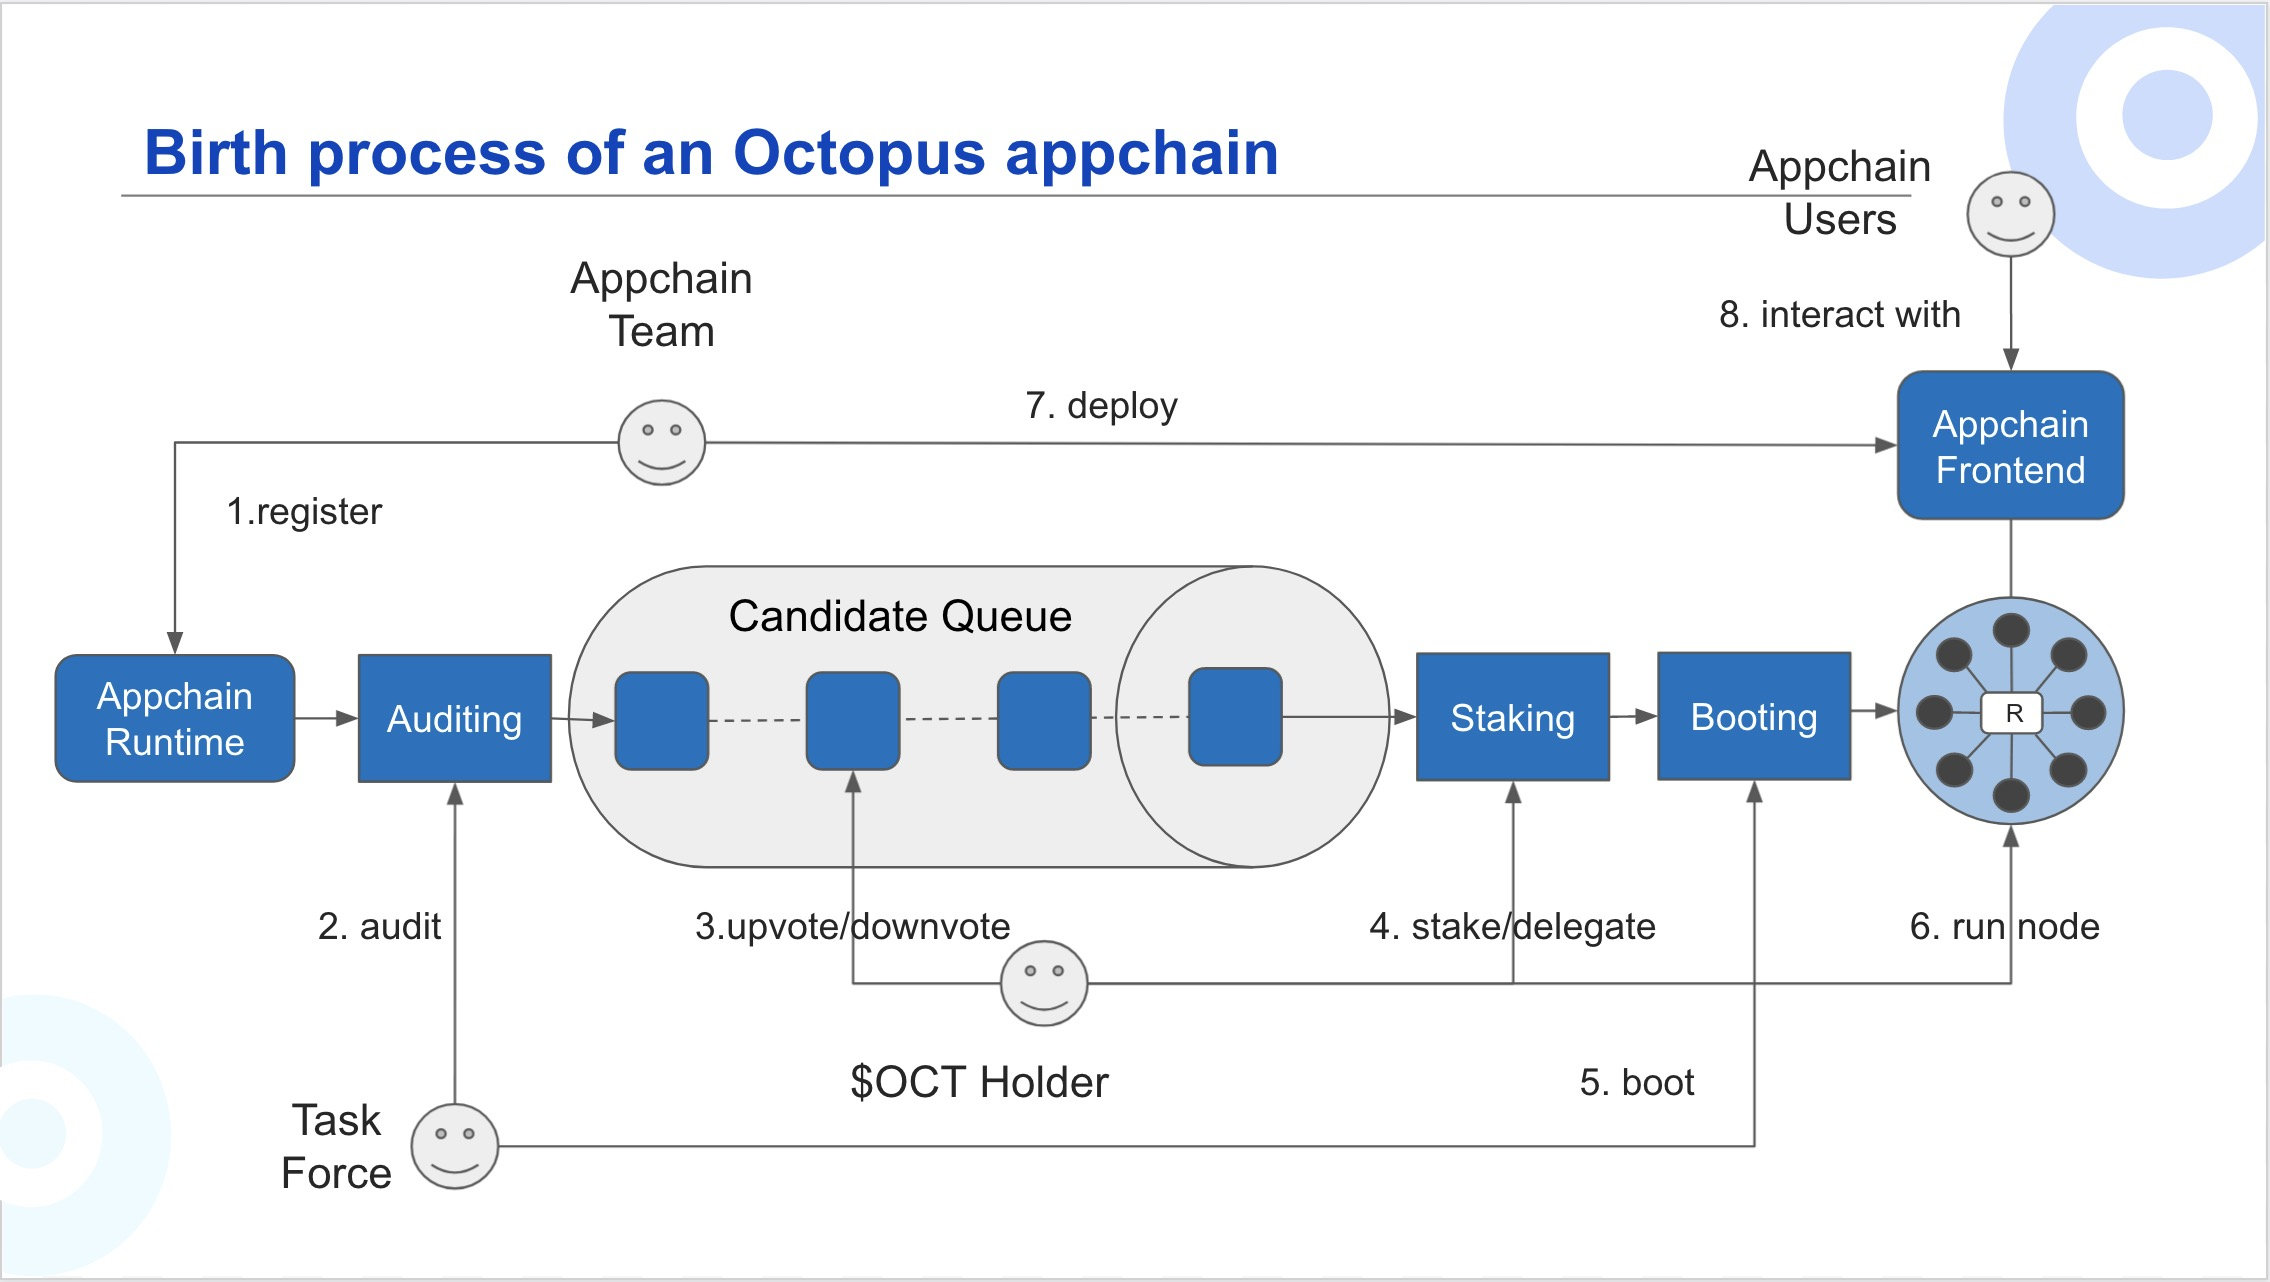
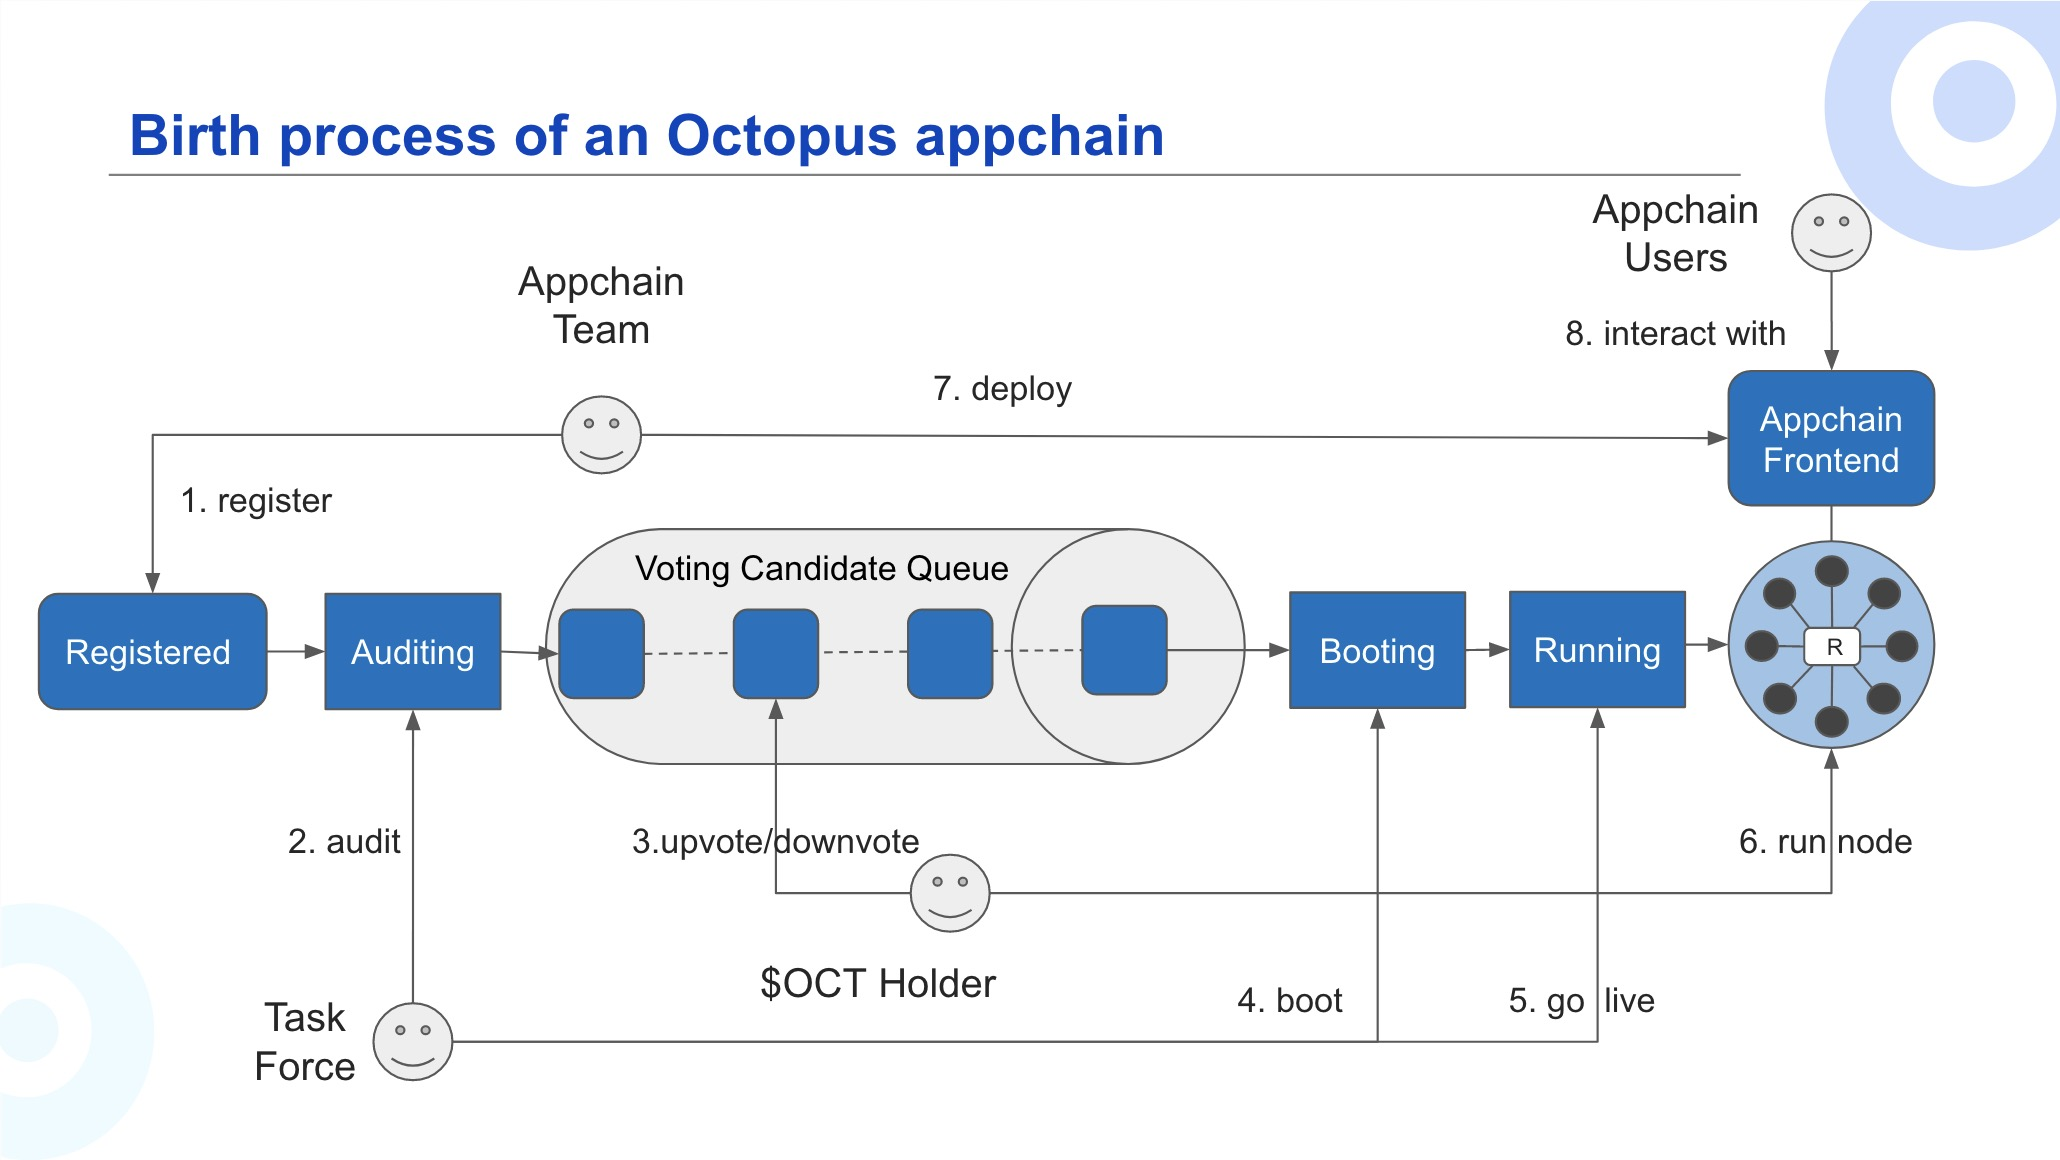
update appchain startup

diff --git a/src/guides/appchain-startup.md b/src/guides/appchain-startup.md
@@ -4,27 +4,26 @@
 
 ### Prerequisite
 
-An appchain goes to live, the appchain team firstly needs to do:
+An appchain goes live, the appchain team firstly needs to do:
 
 * [Develop](./appchain-develop.md) and complete the implementation for the appchain functional specification file, include: publish the appchain release;
 * Firstly need to [register](./appchain-register.md) the appchain and pass the audit and the other process in [testnet](https://testnet.oct.network). And then register the appchain in [mainnet](https://mainnet.oct.network).
 
 ### Appchain Status
 
-After the registration is completed, there are the below fours phases:
+There are the below five phases:
 
-1. **Auditing**: The Octopus team will start the audit within 1-2 weeks. During the Auditing phase, the Octopus team mainly audits for two aspects:
-    * Whether there are known security vulnerabilities in the Substrate codes;
-    * Whether the implementation of Appchain is consistent with its functional specification file.
-2. **Voting**: If the Appchain passes the audit, it will go through the Voting phase. This is the **critical stage** for the Appchain team to request support from OCT holders. OCT holders can [vote](./voting-appchain.md) to decide whether the Appchain would go through the next phase.
-3. **Staking**: The Appchain with the highest vote scores will go through the Staking phase, which is the pre-launch stage of the Appchain network. At this phase, OCT holders can stake OCT as appchain [validator](../maintain/validator-guide.md) or [delegator](./staking-delegate.md), and the validator doesn't need to run a validator node.
-4. **Booting**: When the Appchain obtains enough validator nodes, and the total value staked OCTs be at $2 million which is the lowest safety limit, the Octopus team will run several validator nodes as the booting nodes of the Appchain network, the Appchain will go through the Booting phase.
+1. **Registered**: The Appchain will go through the Registered phase after the appchain team submits the registration with the appchain information.
+2. **Auditing**: The Octopus team will start the audit within 1-2 weeks. During the Auditing phase, the Octopus team mainly audits for two aspects:
+    * The protocol functions are usable/valuable for business purposes;
+    * Both the protocol apps and appchain node are implemented as the same with the protocol function specification file provided;
+3. **Voting**: If the Appchain passes the audit, it will go through the Voting phase. This is the **critical stage** for the Appchain team to request support from OCT holders. OCT holders can [vote](./voting-appchain.md) to decide whether the Appchain would go through the next phase.
+4. **Booting**: The Appchain with the highest vote scores will go through the Booting phase, the Octopus team will do some preparations for the appchain to go live.
+5. **Running**: After the Octopus team boots the appchain and the Appchain team activates the chain with the Sudo account,  the Octopus team will execute the go-live step, the Appchain will go through the Running phase.
 
-> Notes:
-> * An appchain network only needs 6 validator nodes to startup, Octopus Foundation will run 4 boot-nodes for each appchain, and those boot-nodes will not accept delegation.
-> * To be a validator, the minimum amount of stake OCT is 10,000;
+🎉🎉🎉 Congratulations! If you've made it this far, you are now part of the Octopus Network! As an appchain partner, your leased security is valid as long as the community continues to support the project with staking OCT tokens. If you have any questions, please reach out to us on [Discord](https://discord.gg/6GTJBkZA9Q). If you don't have your own appchain channel there, please contact `sheldon@oct.network` to affirm your registration and keep a channel open for your appchain in our Octopus Network community.
 
-### Booting the Appchain
+### Tasks in the Booting Phase
 
 The Octopus team will do the below for each appchain network:
 
@@ -34,16 +33,3 @@ The Octopus team will do the below for each appchain network:
 * Deploy NEP141 token of the appchain native token;
 
 The appchain team needs to provide premined appchain native token amount and block reward amount(for each day) to Octopus team. The Octopus team will make sure premined appchain native token amount and block reward amount are properly set in wrapper token contract on Mainchain and ChainSpec of appchain.
-
-### Step by Step: Appchain Onboarding
-
-Taking the testnet as an example, the steps to start the appchain are as follows:
-1. Login to funded NEAR web wallet account, containing OCT and NEAR tokens.
-2. Navigate to [Octopus Test Network](https://testnet.oct.network) and click "Join Octopus".
-3. Fill in the forms with the desired project name and GitHub details for [appchain registration](./appchain-register.md), and click "Submit".
-4. After the registration is passed, when the audit process starts, the UI will mark the appchain as **Auditing** phase. This means the audit is active with the Octopus Network team and no feedback will be presented until complete. Octopus Network reserves the right to protect the network through this process, so please be patient: projects that are acceptable but need corrections will not be rejected if the submitter is willing to adjust their Github repositories.
-5. Once the audit is completed, the UI will mark the appchain as **Voting** phase. This means the OCT holder could [vote](./voting-appchain.md) for the appchain.
-6. The voting will take about 1-2 weeks, and then the UI will mark the appchain with the highest vote scores as **Staking** phase. This means the OCT holder could be stake OCT to be the [validator](../maintain/validator-guide.md) of the appchain.
-7. The appchain goes through the **Booting** phase, its network will produce new blocks and allow new validator nodes to join. The appchain team can configure its front end to connect to the gateway through an RPC endpoint, and users can use its application.
-
-🎉🎉🎉 Congratulations! If you've made it this far, you are now part of the Octopus Network! As an appchain partner, your leased security is valid as long as the community continues to support the project with staking OCT tokens. If you have any questions, please reach out to us on [Discord](https://discord.gg/6GTJBkZA9Q). If you don't have your own appchain channel there, please contact `sheldon@oct.network` to affirm your registration and keep a channel open for your appchain in our Octopus Network community.

diff --git a/src/cn/guides/appchain-startup.md b/src/cn/guides/appchain-startup.md
@@ -14,20 +14,25 @@
 
 ### 应用链状态
 
-注册完成后，有以下四个阶段：
+应用链状态有以下5个阶段：
+1. **Registered**：
+2. **审核**：八达通团队会在1-2周内开始审核。在审核阶段，八达通团队主要审核两个方面：
 
-1. **审计（Auditing）**：章鱼网络团队会在1-2周内开始审核，审核通过后会进入审计阶段，章鱼网络团队主要从两个方面进行审计：
-    * Substrate 代码中是否存在已知的安全漏洞；
-    * 应用链实现是否与其提供的功能规范文件一致。
-2. **投票（Voting）**：应用链通过审计后会进入投票阶段，这是应用链团队向 OCT 持有者争取支持的**关键阶段**。OCT 持有者可以[投票](./voting-appchain.md)决定应用链是否进入下个阶段。
-3. **质押（Staking）**：获得赞成票数排名第一的应用链会进入质押阶段，即网络的预启动阶段。该阶段 OCT 持有者可以质押 OCT 选择成为应用链的[验证人](../maintain/validator-guide.md)或[委托人](./staking-delegate.md)，这个阶段的验证人不需要启动验证节点。
-4. **启动（Booting）**：当应用链获得足够多的验证器节点，且质押的 OCT 总价值达到 200 万美元即最低安全限制时，章鱼网络团队会运行几个验证器节点作为应用链网络的启动节点，这时应用链进入启动阶段。
+3. **投票**：如果Appchain通过审核，将进入投票阶段。这是 Appchain 团队向 OCT 持有者请求支持的**关键阶段**。 OCT 持有者可以[投票](./voting-appchain.md) 来决定 Appchain 是否进入下一阶段。
+4. **Booting**：投票得分最高的Appchain将进入下一阶段，Octopus团队将运行四个验证器节点作为Appchain网络的启动节点，Appchain将进入Booting阶段。
+5. **Running**：Octopus团队启动应用链，Appchain团队使用Sudo账户激活链后，Octopus团队将执行上线步骤，Appchain将进入Running阶段。
 
-> 备注：
-> * 应用链网络只需要 6 个验证节点就可以启动，章鱼基金会会为每个应用链运行 4 个启动节点，这些启动节点不会接受委托。
-> * 验证人质押的 OCT 最小数量为1万个；
+1. **已注册（Registered）**：应用链团队填写注册信息并提交后将进入 Registered 阶段。
+2. **审计（Auditing）**：通常章鱼网络团队会在1-2周内开始审核，审核通过后会进入 Auditing 阶段，章鱼网络团队主要从两个方面进行审计：
+    * 应用链协议提供的功能从业务上是可用的/有价值；
+    * 应用链协议应用程序和应用链节点的实现与其提供的协议功能规范文件描述相同；
+3. **投票（Voting）**：应用链通过审计后会进入 Voting 阶段，这是应用链团队向 OCT 持有者争取支持的**关键阶段**。OCT 持有者可以[投票](./voting-appchain.md)决定应用链是否进入下个阶段。
+4. **启动（Booting）**：投票得分最高的应用链将进入 Booting 阶段，章鱼网络团队将会为应用链上线进行一系列的操作。
+5. **运行（Running）**：章鱼网络团队完成 Booting 阶段的所有操作，然后应用链团队使用 Sudo 账户激活链，章鱼网络团队将执行上线步骤，应用链则进入 Running 阶段。
 
-### 启动应用链
+🎉🎉🎉 恭喜！如果您已经做到了这一点，您现在是章鱼网络的一部分！我们很高兴看到应用链团队可以使用这项令人兴奋的技术共同构建 Web3.0！如果您有任何问题，请通过[Discord](https://discord.gg/6GTJBkZA9Q)与我们联系。如果没有自己的应用链频道，请联系`sheldon@oct.network`以确认您的注册，并在我们章鱼网络社区中设置您的应用链频道。
+
+### Booting 阶段的操作
 
 章鱼网络团队将为每个应用链网络执行以下操作：
 
@@ -37,16 +42,3 @@
 * 部署应用链原生通证的 NEP141 通证；
 
 应用链团队需要向章鱼网络团队提供预挖的应用链原生通证数量和区块奖励数量（每天）。章鱼网络团队将确保在应用链的主链和 ChainSpec 上的 Wrapper 合约中正确设置预挖的应用链原生通证数量和区块奖励数量。
-
-### 逐步启动应用链
-
-以测试网为例，启动应用链的操作步骤如下：
-1. 登录 NEAR 网络钱包账户，账户中需要有 OCT 和 NEAR 代币。
-2. 导航到[章鱼测试网络](https://testnet.oct.network)，并点击"Join Octopus"。
-3. 填写[应用链注册](./appchain-register.md)所需的项目名称和 GitHub 详细信息，点击"Submit"。
-4. 注册审核通过后，审计过程开始时，操作界面会显示应用链处于 **审计（Auditing）** 阶段。这意味着章鱼网络团队正在进行审核，在审核完成之前不会提交任何反馈。章鱼网络团队通过此过程确保网络运行安全，因此请耐心等待。如果提交者希望调整其 Github 仓库等信息，这是允许的，在更正的项目不会被拒绝。
-6. 审计完成后，操作界面会显示应用链处于 **投票（Voting）** 阶段。这时需等待 OCT 持有者为应用链[投票](./voting-appchain.md)。
-7. 投票大约会持续1-2周，得分最高的应用链将进入下一个 **质押（Staking）** 阶段，这时需等待 OCT 持有者做应用链的[验证人](../maintain/validator-guide.md)。 
-8. 应用链进入启动阶段，应用链网络会生成新的区块，并允许新的验证节点加入。应用链团队可以配置其前端通过RPC端点连接到网关，用户即可使用其应用。
-
-🎉🎉🎉 恭喜！如果您已经做到了这一点，您现在是章鱼网络的一部分！我们很高兴看到应用链团队可以使用这项令人兴奋的技术共同构建 Web3.0！如果您有任何问题，请通过[Discord](https://discord.gg/6GTJBkZA9Q)与我们联系。如果没有自己的应用链频道，请联系`sheldon@oct.network`以确认您的注册，并在我们章鱼网络社区中设置您的应用链频道。
